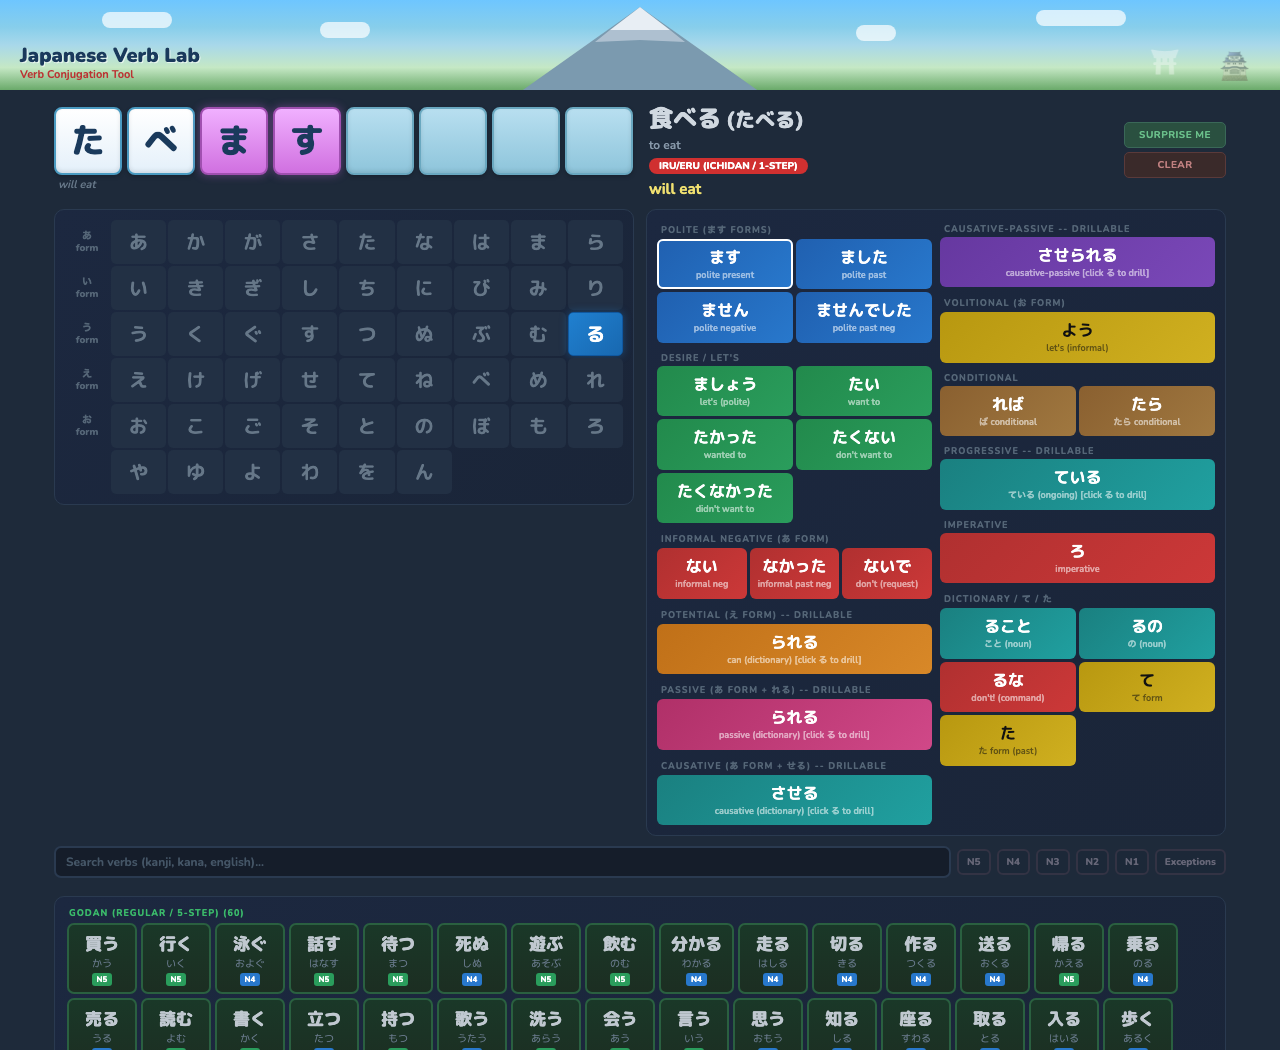
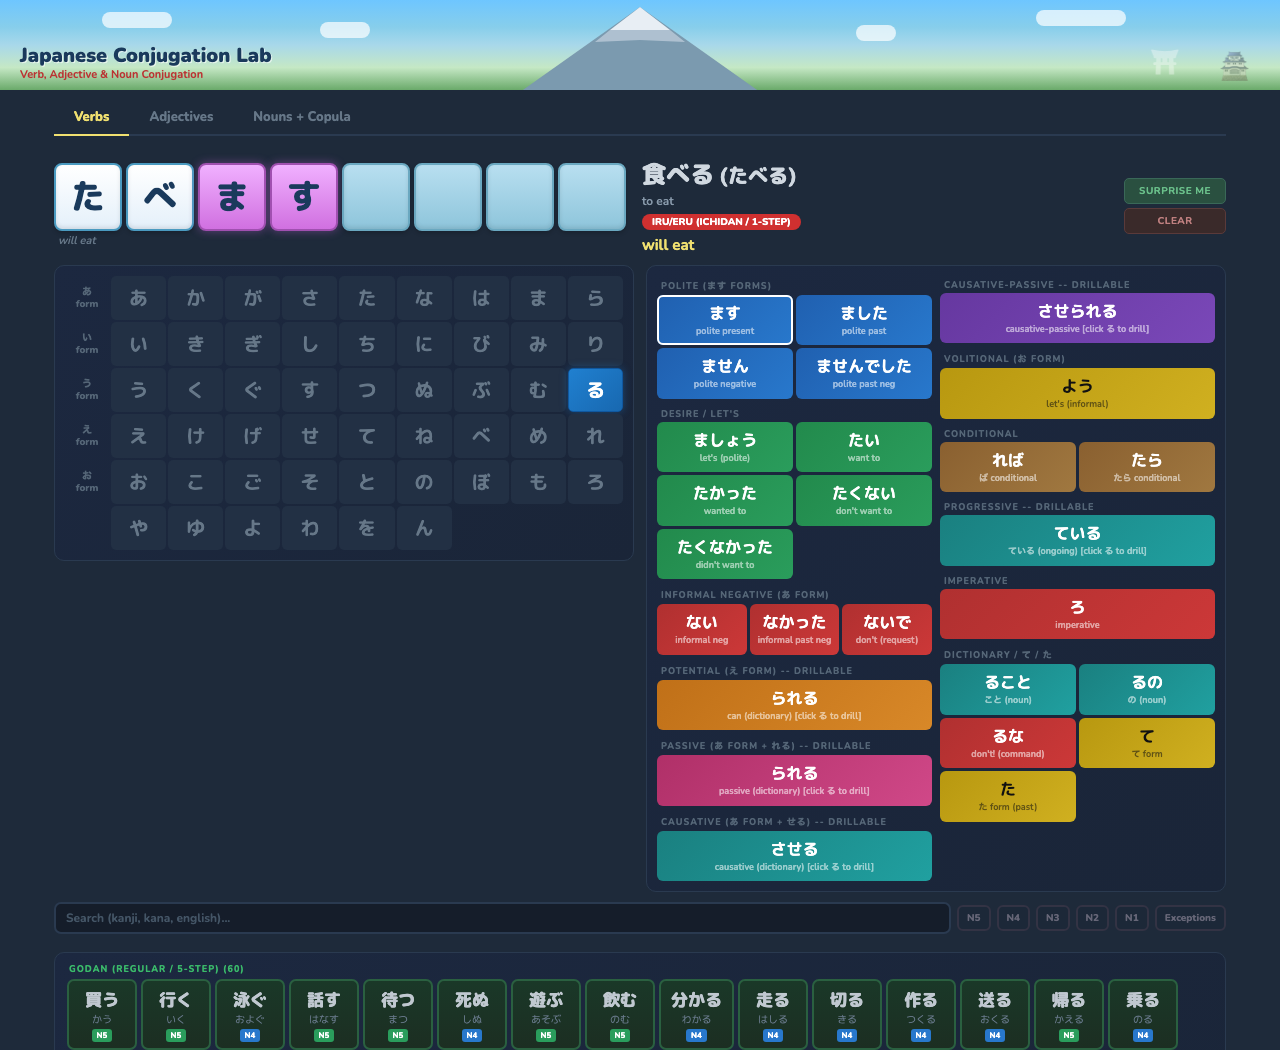
Fix TODOs: header title, footer, compact tiles, README update
- Header title: "Japanese Verb Lab" -> "Japanese Conjugation Lab"
- Added footer with MIT license, copyright, and GitHub link
- Compact tile system: tiles shrink for long conjugated forms (>7 chars
  = compact, >10 = very-compact) so words like
  にほんじんではありませんでした don't break the layout
- Updated README: removed roadmap (adjectives done), added live site
  URL, updated features list to cover adjectives/nouns/tabs
- Updated GitHub repo homepage URL
- Fresh screenshot showing tab UI
- Removed TODO file

diff --git a/css/style.css b/css/style.css
@@ -39,16 +39,21 @@ body { font-family:'Nunito',sans-serif; background:#1e2a3a; color:#fff; min-heig
 
 /* TILES */
 .top-row { display:flex; align-items:center; gap:16px; }
-.tile-slots { display:flex; gap:5px; }
+.tile-slots { display:flex; gap:4px; flex-wrap:nowrap; }
 .tile-slot {
   width:68px; height:68px;
   background:linear-gradient(180deg,#b8dff0,#8ec5db);
   border-radius:8px; border:2px solid #6aa8c0;
-  display:flex; align-items:center; justify-content:center;
+  display:flex; align-items:center; justify-content:center; flex-shrink:0;
   font-family:'M PLUS Rounded 1c',sans-serif; font-size:34px; font-weight:800; color:#1a3a5c;
   box-shadow:inset 0 -2px 4px rgba(0,0,0,0.1),0 2px 4px rgba(0,0,0,0.2);
   transition:all 0.15s; cursor:default;
 }
+/* Compact tiles for long words */
+.tile-slots.compact .tile-slot { width:52px; height:52px; font-size:26px; }
+.tile-slots.compact { gap:3px; }
+.tile-slots.very-compact .tile-slot { width:40px; height:40px; font-size:20px; }
+.tile-slots.very-compact { gap:2px; }
 .tile-slot.filled { background:linear-gradient(180deg,#fff,#e4f0fa); border-color:#4a9ac0; }
 .tile-slot.ending {
   background:linear-gradient(180deg,#ffe77a,#f0c030); border-color:#c89800;
@@ -290,3 +295,13 @@ body { font-family:'Nunito',sans-serif; background:#1e2a3a; color:#fff; min-heig
   color:#d0d8e0; margin-bottom:8px;
 }
 .ref-card .ref-hint { font-size:12px; font-style:italic; color:#667788; line-height:1.5; }
+
+/* FOOTER */
+.site-footer {
+  max-width:1200px; margin:20px auto 10px; padding:12px 14px;
+  text-align:center; font-size:11px; color:#556677;
+  border-top:1px solid #2a3a50;
+}
+.site-footer .sep { margin:0 6px; color:#334455; }
+.site-footer a { color:#6090c0; text-decoration:none; }
+.site-footer a:hover { color:#80b0e0; text-decoration:underline; }

diff --git a/index.html b/index.html
@@ -11,7 +11,7 @@
 <div class="header">
   <div class="cloud"></div><div class="cloud"></div><div class="cloud"></div><div class="cloud"></div>
   <svg viewBox="0 0 400 90" fill="none"><polygon points="200,5 80,90 320,90" fill="#7B9AAF"/><polygon points="200,5 170,28 230,28" fill="#E8EEF4"/><polygon points="170,28 155,40 200,38 245,40 230,28" fill="#D0DAE6" opacity="0.6"/></svg>
-  <div class="header-title"><h1>Japanese Verb Lab</h1><div class="sub">Verb, Adjective & Noun Conjugation</div></div>
+  <div class="header-title"><h1>Japanese Conjugation Lab</h1><div class="sub">Verb, Adjective & Noun Conjugation</div></div>
   <span class="deco r2">&#x26E9;</span><span class="deco r1">&#x1F3EF;</span>
 </div>
 <div class="app">
@@ -54,6 +54,14 @@
   </div>
   <div class="verb-selector" id="vbar"></div>
 </div>
+
+<footer class="site-footer">
+  <span>Japanese Conjugation Lab</span>
+  <span class="sep">|</span>
+  <span>MIT License &copy; 2025 Mario Longobardi</span>
+  <span class="sep">|</span>
+  <a href="https://github.com/mlongob/japanese-conjugation-lab" target="_blank" rel="noopener">Source on GitHub</a>
+</footer>
 
 <script src="js/app.js"></script>
 </body>

diff --git a/js/app.js b/js/app.js
@@ -747,8 +747,15 @@ function render() {
 function renderTiles() {
   const el=document.getElementById('tiles');
   el.innerHTML='';
+  el.className='tile-slots';
   const N=8;
   if(!cur) { for(let i=0;i<N;i++){const d=document.createElement('div');d.className='tile-slot';el.appendChild(d);} return; }
+
+  // Compact tiles for long conjugated forms
+  let charCount = [...cur.r].length;
+  if(selConj) { const p=getConjParts(cur,selConj); if(p) charCount=[...p.full].length; }
+  if(charCount > 10) el.classList.add('very-compact');
+  else if(charCount > 7) el.classList.add('compact');
 
   if(selConj && cur) {
     const parts=getConjParts(cur,selConj);

diff --git a/README.md b/README.md
@@ -1,6 +1,8 @@
 # Japanese Conjugation Lab
 
-An interactive web tool for exploring Japanese verb conjugation patterns. Select a verb, click through the hiragana chart, and watch conjugated forms build character by character.
+An interactive web tool for exploring Japanese conjugation patterns across verbs, adjectives, and nouns. Select a word, click through conjugation forms, and watch conjugated words build character by character.
+
+Try it live: [https://mlongob.github.io/japanese-conjugation-lab/](https://mlongob.github.io/japanese-conjugation-lab/)
 
 ![Screenshot](docs/screenshot.png)
 
@@ -10,22 +12,34 @@ This project was heavily inspired by the Verb Lab tool created by George Tromble
 
 ## Features
 
+- Tab-based navigation: Verbs, Adjectives, and Nouns + Copula
 - Interactive hiragana chart showing the 5-step conjugation system for godan verbs
-- Click-to-remove る interaction for ichidan verbs
-- Full conjugation engine covering polite, negative, potential, passive, causative, causative-passive, conditional, progressive, imperative, te/ta forms
-- Recursive drill-down into compound forms (potential, passive, causative produce new conjugatable verbs)
-- 130+ verb database tagged with JLPT levels (N5-N1)
+- Click-to-remove ending interaction for ichidan verbs and い-adjectives
+- Full verb conjugation engine: polite, negative, potential, passive, causative, causative-passive, conditional, progressive, imperative, te/ta forms
+- Adjective conjugation: present, past, negative, te form, conditional, adverbial, attributive for both い and な types
+- Noun + copula conjugation: だ/です forms, negative, past, conditional
+- Irregular handling: いい (よ stem), する/来る compounds
+- Recursive drill-down into compound verb forms (potential, passive, causative produce new conjugatable verbs)
+- 180+ words tagged with JLPT levels (N5-N1)
 - Iru/eru godan exception verbs flagged for learners
 - Search by kanji, kana, romaji, or English meaning
 - JLPT level filtering
 - Shareable URL state (every interaction updates the URL)
 - No dependencies, no build step -- just open index.html
 
-## Verb Types
+## Word Types
 
+### Verbs
 - **Godan (5-step):** The verb ending cycles through all five vowel rows of the hiragana chart depending on the conjugation form. These are the most common Japanese verbs.
 - **Ichidan (1-step):** The verb stem is formed by simply dropping the final る. All conjugation suffixes attach directly to the stem.
 - **Irregular:** する (to do) and 来る (to come) follow unique conjugation patterns. Compound する verbs (e.g. 勉強する) share the same irregular pattern.
+
+### Adjectives
+- **い-adjectives:** Drop the final い and add conjugation suffixes (かった, くない, くて, etc.). The irregular いい conjugates with a よ stem.
+- **な-adjectives:** Add copula-based endings directly to the stem (だ, です, だった, じゃない, etc.).
+
+### Nouns + Copula
+- Nouns conjugate through the copula (だ/です) to express state of being, following the same pattern as な-adjectives but with の for attribution.
 
 ## Usage
 
@@ -41,10 +55,6 @@ python3 -m http.server 8000
 ```
 
 Then visit `http://localhost:8000` in your browser.
-
-## Roadmap
-
-- Adjective conjugation support (い-adjectives, な-adjectives)
 
 ## License
 
